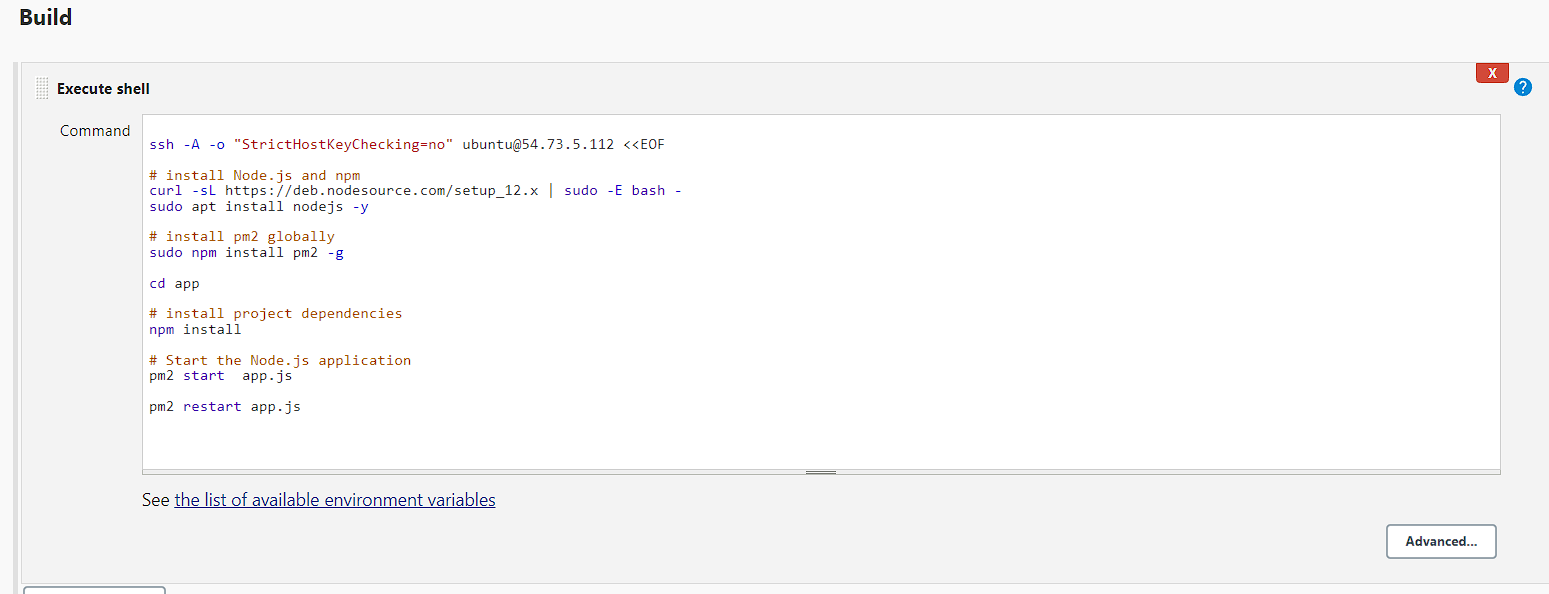
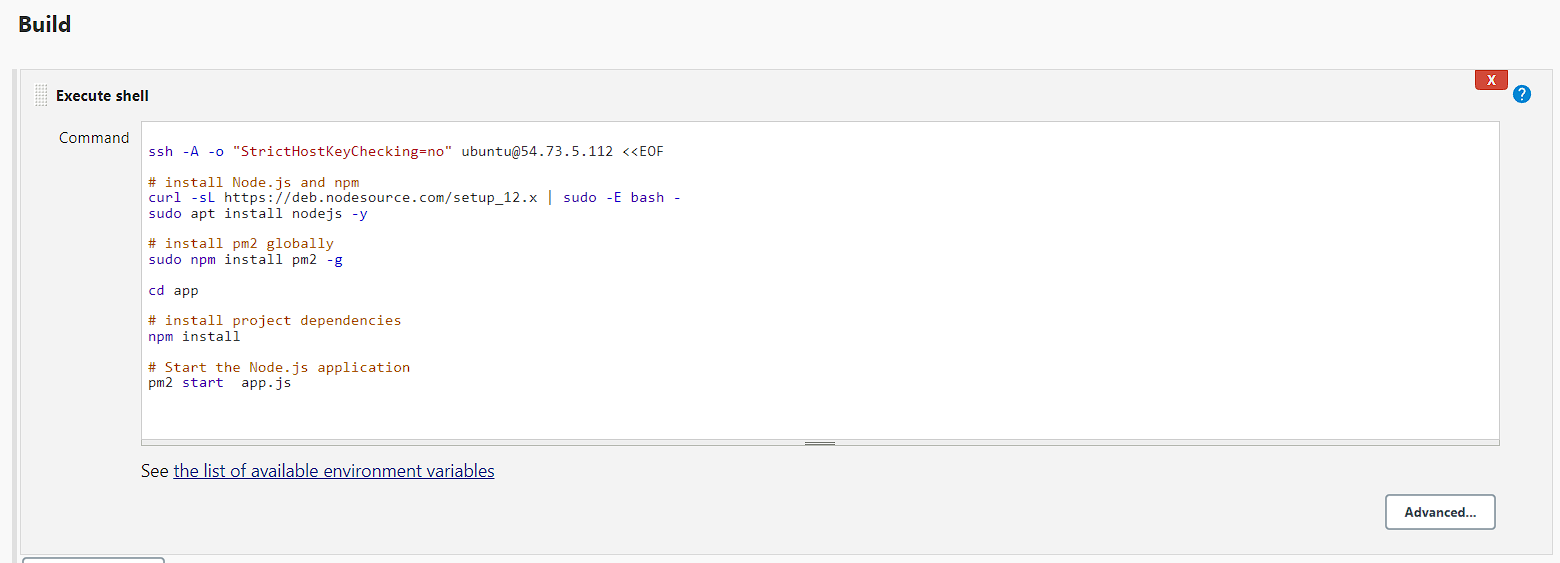
test

diff --git a/Jenkins/Jenkins_CD_Job.md b/Jenkins/Jenkins_CD_Job.md
@@ -47,7 +47,5 @@ This code is a shell script that uses SSH to connect to an EC2 instance and laun
 
 7. `pm2 start app.js`: Starts the Node.js application named "app.js" using PM2.
 
-8. `pm2 restart app.js`: Restarts the Node.js application named "app.js" using PM2. This is often used to apply any code changes or updates to the running application.
-
 
 ![](execute_app.PNG)
